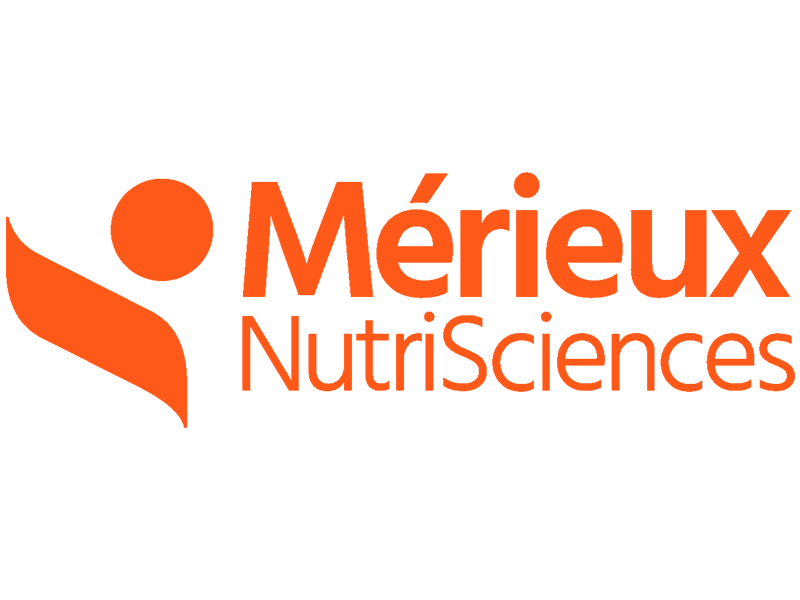
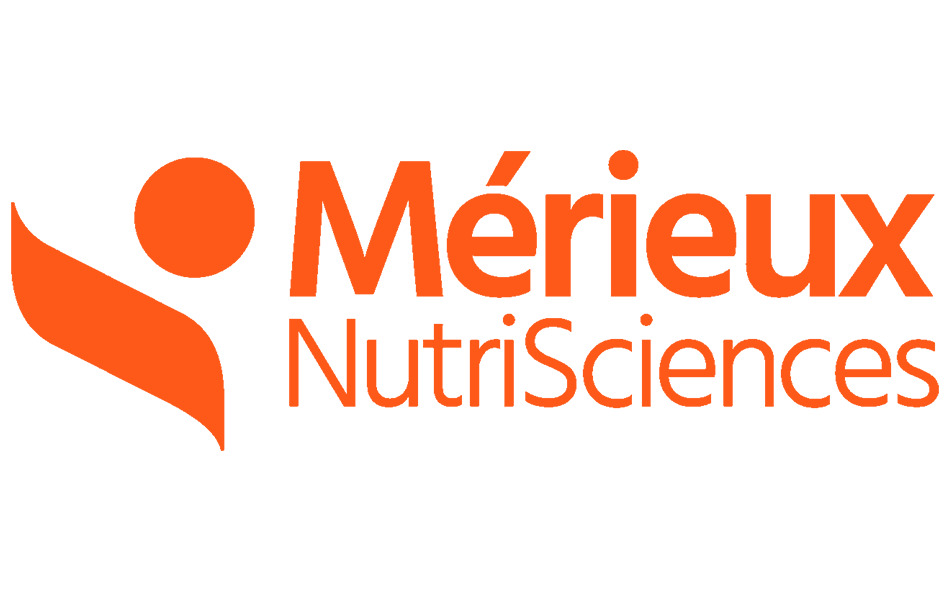
badge scaling fix - medium screen sizes

diff --git a/css/tiles.css b/css/tiles.css
@@ -400,10 +400,10 @@
 }
 /* Modifier for badges */
 [class*="-cell"].promo-badge .image-panel {
-    background-size: 40% auto;
     background-repeat: no-repeat;
     background-position: center;
-    background-clip: content-box; /* make padding inset the image */
+    background-clip: content-box; /* respect padding */
+    background-size: auto 60%; /* scale to fit container while keeping aspect ratio */
 }
 
 /* --- Panel Size Modifiers --- */
